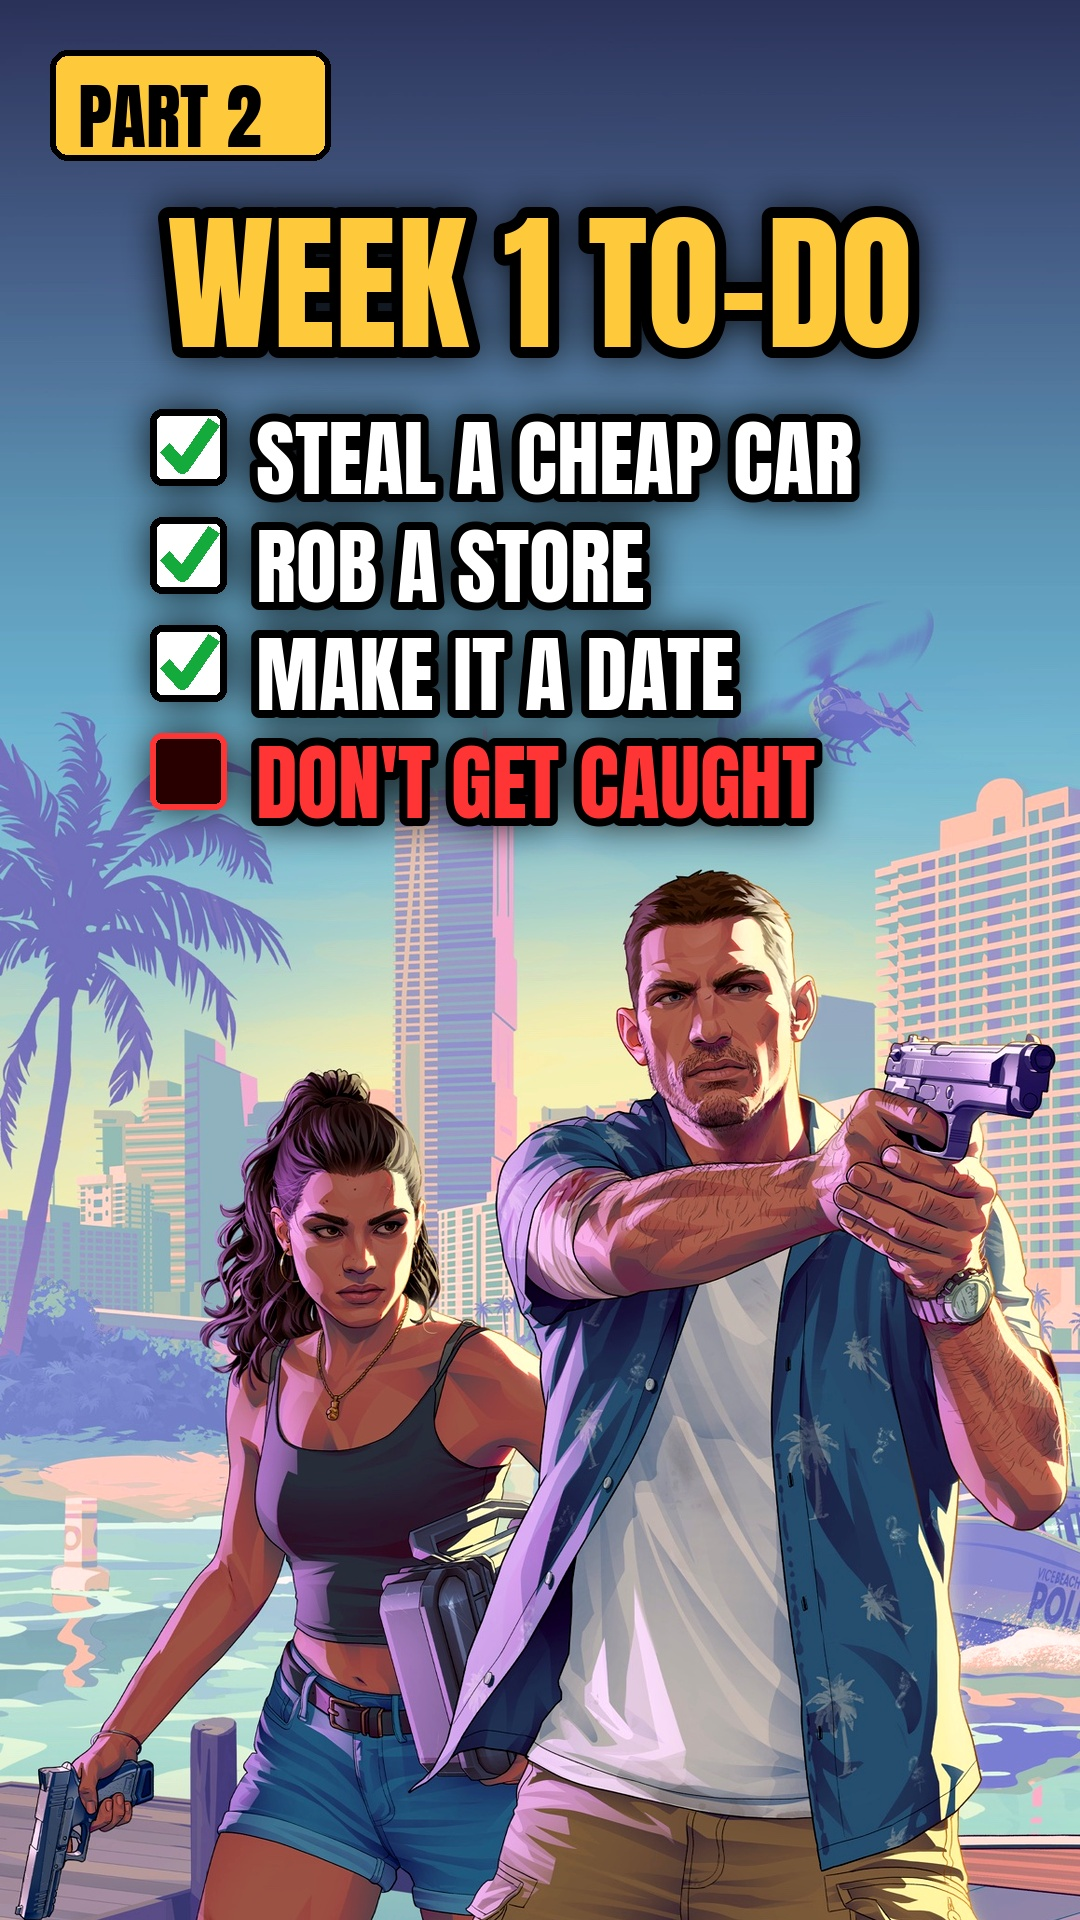
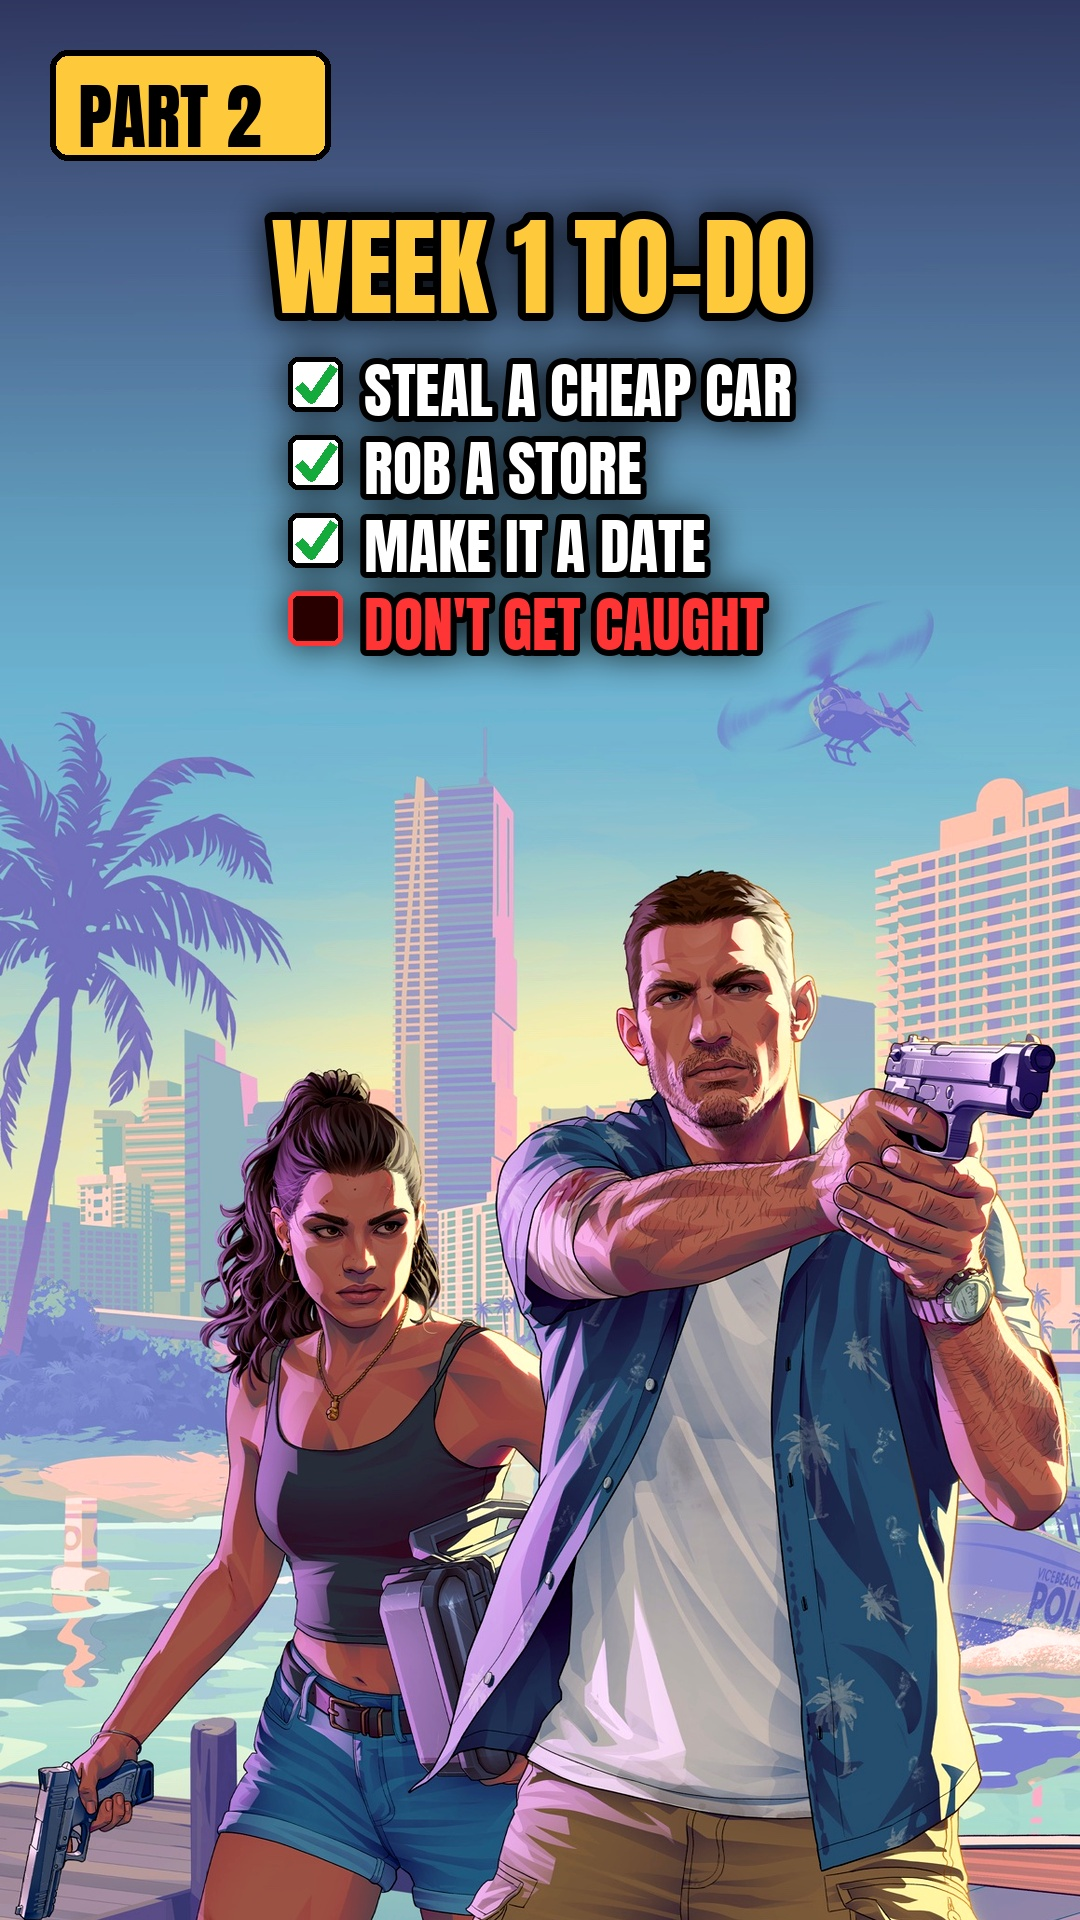
Part 2 cover v6: smaller checklist text
Claude-Session: https://claude.ai/code/session_01DX4dbwA3bNBQnMT2RJeEkt

Changed region(s): [[0.1222, 0.0938, 0.8861, 0.4375]]

diff --git a/production/make_cover024f.py b/production/make_cover024f.py
@@ -10,22 +10,23 @@ big = src.resize((W, int(src.height * W / src.width)), Image.LANCZOS)
 TOP = s(60); im = big.crop((0, TOP, W, TOP + H))
 im = ImageEnhance.Contrast(im).enhance(1.08); im = ImageEnhance.Color(im).enhance(1.1).convert("RGBA")
 g = Image.new("L", (1, H))
-for y in range(H): g.putpixel((0, y), int(max(0, 1 - (y / S) / 760) ** 1.2 * 175))
+for y in range(H): g.putpixel((0, y), int(max(0, 1 - (y / S) / 700) ** 1.2 * 165))
 sh = Image.new("RGBA", (W, H), (10, 8, 40, 255)); sh.putalpha(g.resize((W, H))); im = Image.alpha_composite(im, sh)
 F = "remotion-overlays/public/fonts/Anton-Regular.ttf"
 txt = Image.new("RGBA", (W, H), (0, 0, 0, 0)); d = ImageDraw.Draw(txt)
-fh = ImageFont.truetype(F, s(150)); head = "WEEK 1 TO-DO"
-d.text(((W - d.textlength(head, font=fh)) / 2, s(170)), head, font=fh, fill=(255, 201, 60), stroke_width=s(11), stroke_fill=(0, 0, 0))
+fh = ImageFont.truetype(F, s(108)); head = "WEEK 1 TO-DO"
+d.text(((W - d.textlength(head, font=fh)) / 2, s(185)), head, font=fh, fill=(255, 201, 60), stroke_width=s(8), stroke_fill=(0, 0, 0))
 items = [("STEAL A CHEAP CAR", True), ("ROB A STORE", True), ("MAKE IT A DATE", True), ("DON'T GET CAUGHT", False)]
-fi = ImageFont.truetype(F, s(84)); x0, y = s(150), s(395); step = s(108); bx = s(76)
+fi = ImageFont.truetype(F, s(60)); bx = s(54); step = s(78)
+wmax = max(d.textlength(t, font=fi) for t, _ in items); x0 = int((W - (bx + s(22) + wmax)) / 2); y = s(345)
 for t, done in items:
     col = (255, 255, 255) if done else (255, 52, 52)
-    d.rounded_rectangle((x0, y + s(14), x0 + bx, y + s(14) + bx), s(12), fill=(255, 255, 255) if done else (40, 0, 0), outline=(0, 0, 0), width=s(7))
+    d.rounded_rectangle((x0, y + s(12), x0 + bx, y + s(12) + bx), s(10), fill=(255, 255, 255) if done else (40, 0, 0), outline=(0, 0, 0), width=s(5))
     if done:
-        d.line((x0 + s(14), y + s(52), x0 + s(32), y + s(72), x0 + s(64), y + s(26)), fill=(20, 170, 60), width=s(14), joint="curve")
+        d.line((x0 + s(10), y + s(40), x0 + s(23), y + s(54), x0 + s(46), y + s(21)), fill=(20, 170, 60), width=s(10), joint="curve")
     else:
-        d.rounded_rectangle((x0, y + s(14), x0 + bx, y + s(14) + bx), s(12), outline=(255, 52, 52), width=s(6))
-    d.text((x0 + bx + s(30), y), t, font=fi, fill=col, stroke_width=s(8), stroke_fill=(0, 0, 0))
+        d.rounded_rectangle((x0, y + s(12), x0 + bx, y + s(12) + bx), s(10), outline=(255, 52, 52), width=s(5))
+    d.text((x0 + bx + s(22), y), t, font=fi, fill=col, stroke_width=s(6), stroke_fill=(0, 0, 0))
     y += step
 glow = txt.filter(ImageFilter.GaussianBlur(s(18))); dk = Image.new("RGBA", (W, H), (0, 0, 0, 0)); dk.putalpha(glow.split()[3].point(lambda v: int(v * .8)))
 im = Image.alpha_composite(im, dk); im = Image.alpha_composite(im, txt); d = ImageDraw.Draw(im)
